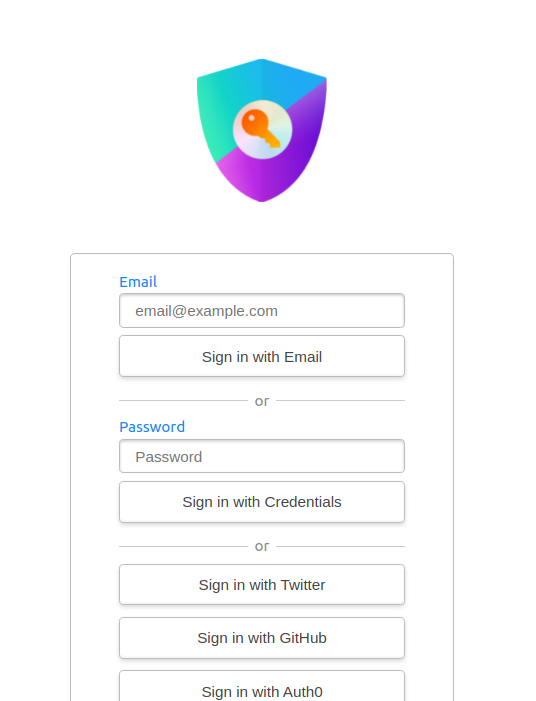
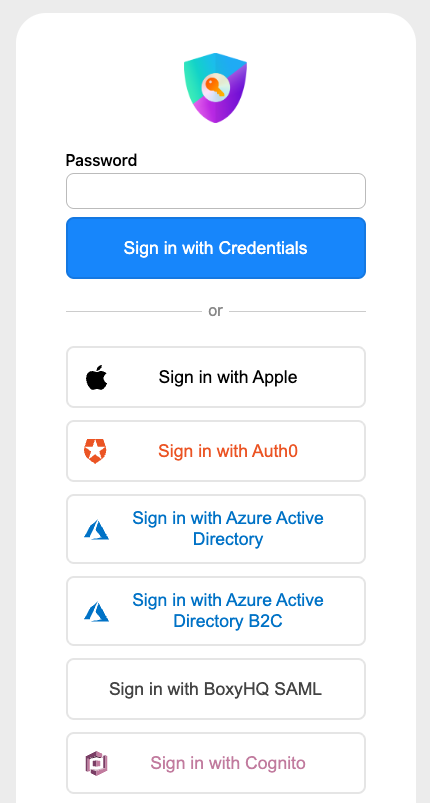
feat(core): Redesigned all default pages (#5825)
* feat(pages): Redesigned all default pages according to sketches discussed.

* chore(signin): Remove console.log

* fix(css): Makes cards scale down to 320px and have a fixed width on larger screens

* fix(styling): Adds margins on bottom and top of card.

* chore(docs): Change the documentation according to changes. Uploaded new images that reflect the new pages.

* fix(next-auth/core): Fixes correct styling of provider button across browsers.

* chore(docs): Add doc string to beta docs aswell

* feat: move changes to core

* revert change in next-auth

revert signin

diff --git a/packages/core/src/lib/pages/styles.css b/packages/core/src/lib/pages/styles.css
@@ -8,7 +8,8 @@
 
 .__next-auth-theme-auto,
 .__next-auth-theme-light {
-  --color-background: #fff;
+  --color-background: #ececec;
+  --color-background-card: #fff;
   --color-text: #000;
   --color-primary: #444;
   --color-control-border: #bbb;
@@ -18,7 +19,8 @@
 }
 
 .__next-auth-theme-dark {
-  --color-background: #000;
+  --color-background: #161b22;
+  --color-background-card: #0d1117;
   --color-text: #fff;
   --color-primary: #ccc;
   --color-control-border: #555;
@@ -29,7 +31,8 @@
 
 @media (prefers-color-scheme: dark) {
   .__next-auth-theme-auto {
-    --color-background: #000;
+    --color-background: #161b22;
+    --color-background-card: #0d1117;
     --color-text: #fff;
     --color-primary: #ccc;
     --color-control-border: #555;
@@ -78,10 +81,9 @@ input[type] {
   width: 100%;
   padding: 0.5rem 1rem;
   border: var(--border-width) solid var(--color-control-border);
-  background: var(--color-background);
+  background: var(--color-background-card);
   font-size: 1rem;
   border-radius: var(--border-radius);
-  box-shadow: inset 0 0.1rem 0.2rem rgba(0, 0, 0, 0.2);
   color: var(--color-text);
 
   &:focus {
@@ -107,41 +109,39 @@ a.button {
   }
 }
 
+button span {
+  flex-grow: 1;
+}
+
 button,
 a.button {
   margin: 0 0 0.75rem 0;
   padding: 0.75rem 1rem;
   color: var(--provider-color, var(--color-primary));
-  background-color: var(--provider-bg, var(--color-background));
+  background-color: var(--provider-bg, var(--color-background-card));
   font-size: 1.1rem;
   min-height: 62px;
   border-color: rgba(0, 0, 0, 0.1);
   border-radius: var(--border-radius);
   transition: all 0.1s ease-in-out;
-  box-shadow: #000 0px 0px 0px 0px, #000 0px 0px 0px 0px,
-    rgba(0, 0, 0, 0.2) 0px 10px 15px -3px, rgba(0, 0, 0, 0.1) 0px 4px 6px -4px;
   font-weight: 500;
   position: relative;
   display: flex;
   align-items: center;
   justify-content: center;
 
-  &:has(img) {
-    justify-content: unset;
-    span {
-      flex-grow: 1;
-    }
+  @media (max-width: 450px) {
+    font-size: 0.9rem;
   }
+
   &:hover {
     cursor: pointer;
   }
   &:active {
-    box-shadow: 0 0.15rem 0.3rem rgba(0, 0, 0, 0.15),
-      inset 0 0.1rem 0.2rem var(--color-background),
-      inset 0 -0.1rem 0.1rem rgba(0, 0, 0, 0.1);
     cursor: pointer;
   }
   #provider-logo {
+    width: 25px;
     display: block;
   }
   #provider-logo-dark {
@@ -149,20 +149,23 @@ a.button {
   }
 }
 
+#submitButton {
+  color: var(--button-text-color, var(--color-info-text));
+  background-color: var(--brand-color, var(--color-info));
+  width: 100%;
+}
+
 @media (prefers-color-scheme: dark) {
   button,
   a.button {
     color: var(--provider-dark-color, var(--color-primary));
     background-color: var(--provider-dark-bg, var(--color-background));
-    border: 1px solid #0d0d0d;
-    box-shadow: #000 0px 0px 0px 0px, #ccc 0px 0px 0px 0px,
-      rgba(255, 255, 255, 0.01) 0px 5px 5px -3px,
-      rgba(255, 255, 255, 0.05) 0px 4px 6px -4px;
   }
   #provider-logo {
     display: none !important;
   }
   #provider-logo-dark {
+    width: 25px;
     display: block !important;
   }
 }
@@ -189,7 +192,6 @@ a.site {
 
   > div {
     text-align: center;
-    padding: 0.5rem;
   }
 }
 
@@ -217,16 +219,16 @@ a.site {
     display: block;
     border: 0;
     border-top: 1px solid var(--color-seperator);
-    margin: 1.5em auto 0 auto;
+    margin: 2rem auto 1rem auto;
     overflow: visible;
 
     &::before {
       content: "or";
-      background: var(--color-background);
+      background: var(--color-background-card);
       color: #888;
       padding: 0 0.4rem;
       position: relative;
-      top: -0.6rem;
+      top: -0.7rem;
     }
   }
 
@@ -234,7 +236,7 @@ a.site {
     background: #f5f5f5;
     font-weight: 500;
     border-radius: 0.3rem;
-    background: var(--color-info);
+    background: var(--color-error);
 
     p {
       text-align: left;
@@ -260,25 +262,26 @@ a.site {
     max-width: 300px;
   }
 }
-.signout {
-  .message {
-    margin-bottom: 1.5rem;
-  }
-}
 
 .logo {
   display: inline-block;
-  margin-top: 100px;
-  max-width: 300px;
-  max-height: 150px;
+  max-width: 150px;
+  margin-top: 20px;
+  margin-bottom: 25px;
+  max-height: 70px;
 }
 
 .card {
-  max-width: max-content;
-  border: 1px solid var(--color-control-border);
-  border-radius: 5px;
+  @media screen and (min-width: 450px) {
+    width: 350px;
+  }
+  @media screen and (max-width: 450px) {
+    width: 200px;
+  }
+  margin: 20px 0 20px 0;
+  background-color: var(--color-background-card);
+  border-radius: 30px;
   padding: 20px 50px;
-  margin: 50px auto;
 
   .header {
     color: var(--color-primary);
@@ -286,5 +289,5 @@ a.site {
 }
 
 .section-header {
-  color: var(--brand-color, var(--color-text));
+  color: var(--color-text);
 }

diff --git a/packages/core/src/lib/pages/signin.tsx b/packages/core/src/lib/pages/signin.tsx
@@ -47,6 +47,13 @@ export default function SigninPage(props: {
     )
   }
 
+  if (typeof document !== "undefined" && theme.buttonText) {
+    document.documentElement.style.setProperty(
+      "--button-text-color",
+      theme.buttonText
+    )
+  }
+
   const error =
     errorType &&
     (signinErrors[errorType.toLowerCase() as Lowercase<SignInPageErrorParam>] ??
@@ -64,7 +71,17 @@ export default function SigninPage(props: {
           }}
         />
       )}
-      {theme.logo && <img src={theme.logo} alt="Logo" className="logo" />}
+      {theme.buttonText && (
+        <style
+          dangerouslySetInnerHTML={{
+            __html: `
+        :root {
+          --button-text-color: ${theme.buttonText}
+        }
+      `,
+          }}
+        />
+      )}
       <div className="card">
         {error && (
           <div className="error">
@@ -165,7 +182,9 @@ export default function SigninPage(props: {
                     </div>
                   )
                 })}
-                <button type="submit">Sign in with {provider.name}</button>
+                <button id="submitButton" type="submit">
+                  Sign in with {provider.name}
+                </button>
               </form>
             )}
             {(provider.type === "email" || provider.type === "credentials") &&

diff --git a/packages/core/src/lib/pages/signout.tsx b/packages/core/src/lib/pages/signout.tsx
@@ -22,13 +22,26 @@ export default function SignoutPage(props: SignoutProps) {
           }}
         />
       )}
-      {theme.logo && <img src={theme.logo} alt="Logo" className="logo" />}
+      {theme.buttonText && (
+        <style
+          dangerouslySetInnerHTML={{
+            __html: `
+        :root {
+          --button-text-color: ${theme.buttonText}
+        }
+      `,
+          }}
+        />
+      )}
       <div className="card">
+        {theme.logo && <img src={theme.logo} alt="Logo" className="logo" />}
         <h1>Signout</h1>
         <p>Are you sure you want to sign out?</p>
         <form action={`${url}/signout`} method="POST">
           <input type="hidden" name="csrfToken" value={csrfToken} />
-          <button type="submit">Sign out</button>
+          <button id="submitButton" type="submit">
+            Sign out
+          </button>
         </form>
       </div>
     </div>

diff --git a/packages/core/src/lib/pages/verify-request.tsx b/packages/core/src/lib/pages/verify-request.tsx
@@ -21,8 +21,8 @@ export default function VerifyRequestPage(props: VerifyRequestPageProps) {
           }}
         />
       )}
-      {theme.logo && <img src={theme.logo} alt="Logo" className="logo" />}
       <div className="card">
+        {theme.logo && <img src={theme.logo} alt="Logo" className="logo" />}
         <h1>Check your email</h1>
         <p>A sign in link has been sent to your email address.</p>
         <p>

diff --git a/packages/core/src/lib/pages/error.tsx b/packages/core/src/lib/pages/error.tsx
@@ -97,8 +97,8 @@ export default function ErrorPage(props: ErrorProps) {
             }}
           />
         )}
-        {theme?.logo && <img src={theme.logo} alt="Logo" className="logo" />}
         <div className="card">
+          {theme?.logo && <img src={theme?.logo} alt="Logo" className="logo" />}
           <h1>{heading}</h1>
           <div className="message">{message}</div>
           {signin}

diff --git a/docs/docs/guides/03-basics/pages.md b/docs/docs/guides/03-basics/pages.md
@@ -60,7 +60,7 @@ Example: `/auth/signin?error=Default`
 
 By default, the built-in pages will follow the system theme, utilizing the [`prefer-color-scheme`](https://developer.mozilla.org/en-US/docs/Web/CSS/@media/prefers-color-scheme) Media Query. You can override this to always use a dark or light theme, through the [`theme.colorScheme` option](/reference/configuration/auth-config#theme).
 
-In addition, you can define a `theme.brandColor` to define a custom accent color for these built-in pages. You can also define a URL to a logo in `theme.logo` which will be rendered above the primary card in these pages.
+In addition, you can define the background color and text color of the button with the `theme.brandColor` and `theme.buttonText` options. You can also define a URL to a logo in `theme.logo` which will be rendered at the top of the card.
 
 #### Sign In
 
